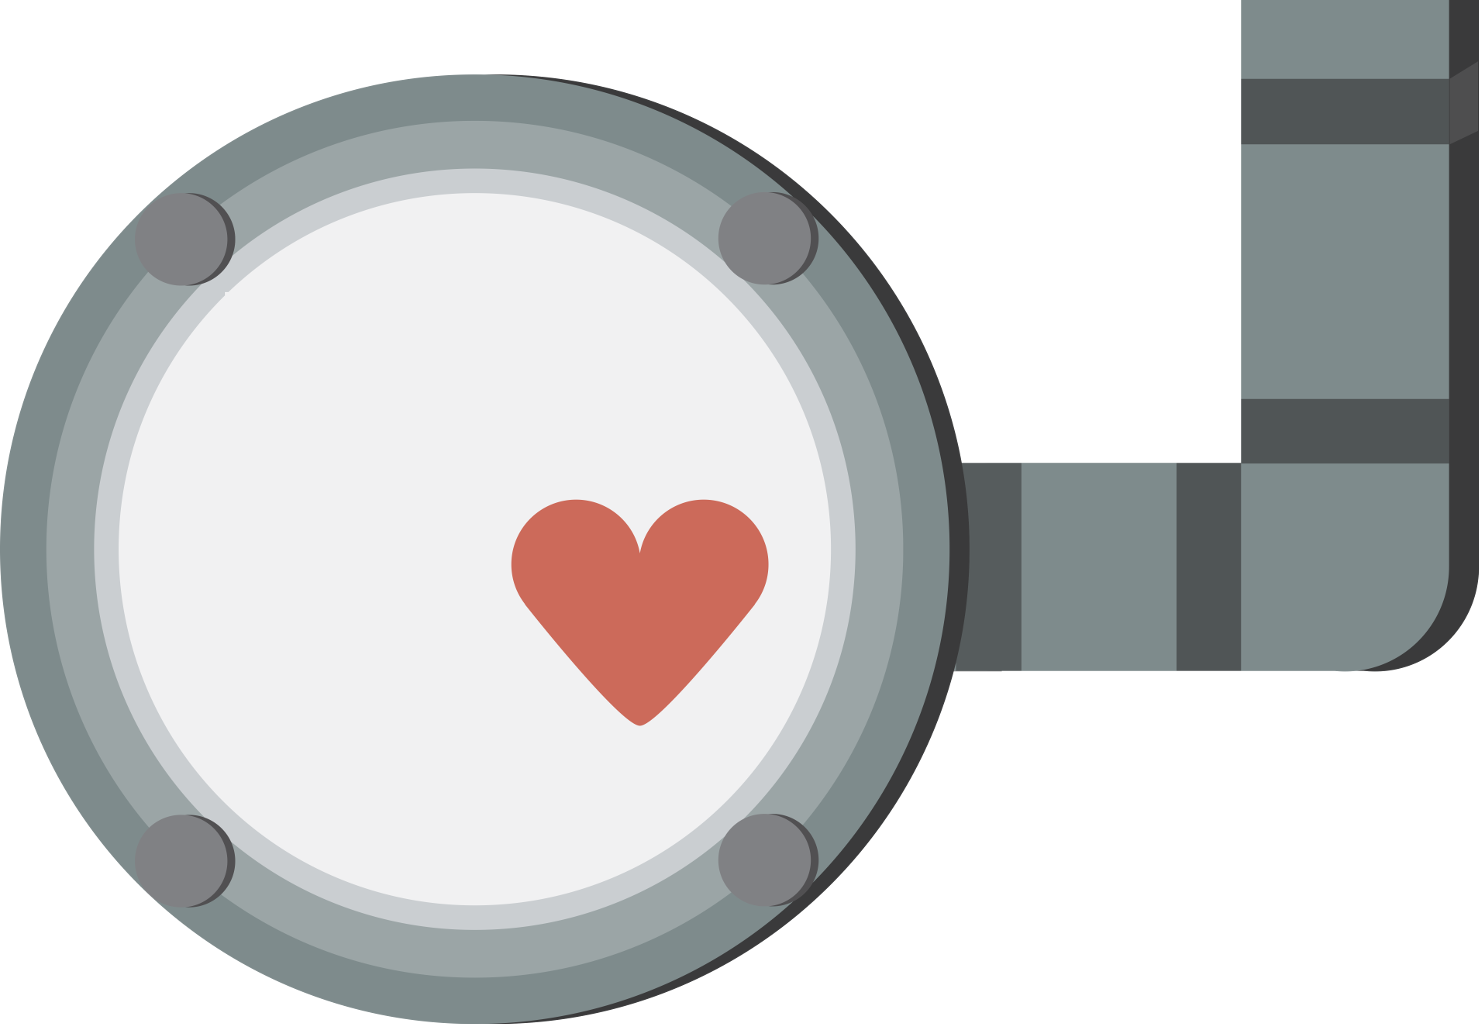
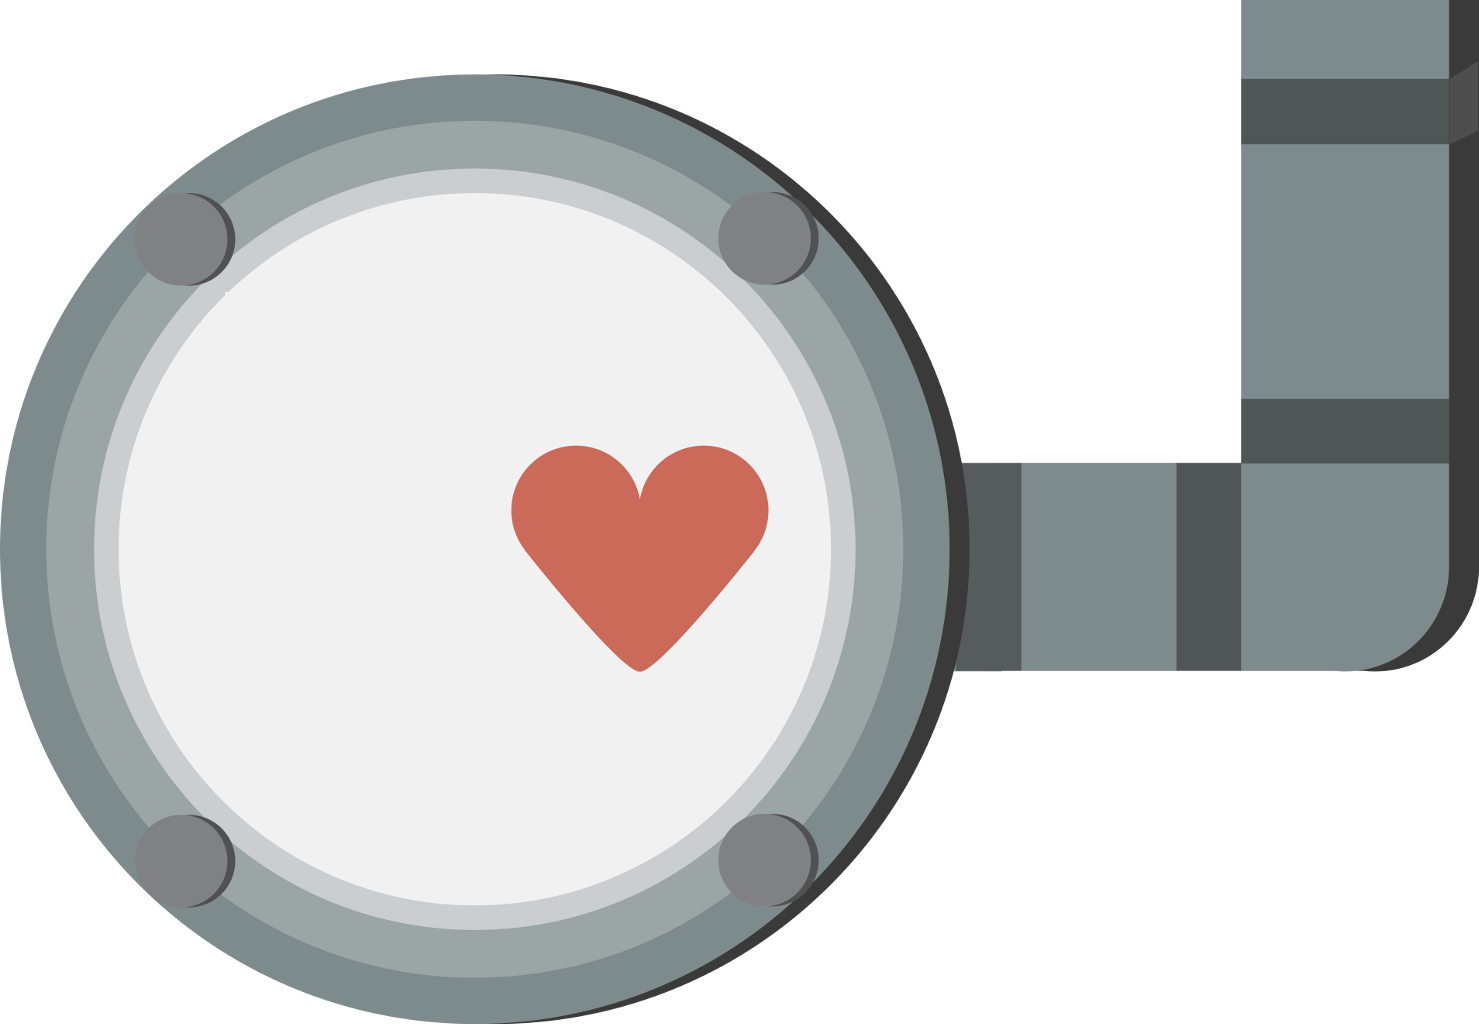
BinGame: Handled item's sprite variety
Former-commit-id: 848bdd9f62b79d91e514d6038de6cd0a1248e781

Changed region(s): [[0.3421, 0.4375, 0.5287, 0.7188]]

diff --git a/app/src/main/java/com/ionis/igem/app/ui/GameActivity.java b/app/src/main/java/com/ionis/igem/app/ui/GameActivity.java
@@ -11,8 +11,8 @@ import com.ionis.igem.app.BinGame;
 import com.ionis.igem.app.game.AbstractGameActivity;
 import com.ionis.igem.app.game.managers.ResMan;
 import com.ionis.igem.app.game.model.BaseGame;
-import com.ionis.igem.app.game.model.FontAsset;
-import com.ionis.igem.app.game.model.GFXAsset;
+import com.ionis.igem.app.game.model.res.FontAsset;
+import com.ionis.igem.app.game.model.res.GFXAsset;
 import com.ionis.igem.app.game.model.HUDElement;
 import com.ionis.igem.app.game.ui.DitheredSprite;
 import org.andengine.engine.camera.SmoothCamera;
@@ -39,6 +39,7 @@ import org.andengine.opengl.texture.TextureOptions;
 import org.andengine.opengl.texture.atlas.bitmap.BitmapTextureAtlas;
 import org.andengine.opengl.texture.atlas.bitmap.BitmapTextureAtlasTextureRegionFactory;
 import org.andengine.opengl.texture.region.ITextureRegion;
+import org.andengine.opengl.texture.region.ITiledTextureRegion;
 import org.andengine.opengl.texture.region.TextureRegion;
 import org.andengine.opengl.texture.region.TiledTextureRegion;
 import org.andengine.opengl.vbo.VertexBufferObjectManager;
@@ -48,7 +49,7 @@ import java.util.List;
 
 public class GameActivity extends AbstractGameActivity implements MenuScene.IOnMenuItemClickListener {
     private static final String TAG = "GameActivity";
-    public static final float SPLASH_TIME = 3f;
+    public static final float SPLASH_DURATION = 0.5f;
 
     private static final int OPTION_RESET = 0;
     private static final int OPTION_QUIT = OPTION_RESET + 1;
@@ -58,7 +59,7 @@ public class GameActivity extends AbstractGameActivity implements MenuScene.IOnM
     private SmoothCamera gameCamera;
 
     private PhysicsWorld physicsWorld;
-    private HashMap<CharSequence, ITextureRegion> textureMap = new HashMap<>();
+    private HashMap<CharSequence, ITiledTextureRegion> textureMap = new HashMap<>();
 
     private HashMap<CharSequence, IFont> fontMap = new HashMap<>();
     private TextureManager textureManager;
@@ -121,7 +122,7 @@ public class GameActivity extends AbstractGameActivity implements MenuScene.IOnM
 
         Log.d(TAG, "onCreateScene - Splash Scene created.");
 
-        mEngine.registerUpdateHandler(new TimerHandler(SPLASH_TIME, new ITimerCallback() {
+        mEngine.registerUpdateHandler(new TimerHandler(SPLASH_DURATION, new ITimerCallback() {
             public void onTimePassed(final TimerHandler pTimerHandler) {
                 mEngine.unregisterUpdateHandler(pTimerHandler);
 
@@ -179,15 +180,10 @@ public class GameActivity extends AbstractGameActivity implements MenuScene.IOnM
         final String filename = asset.getFilename();
         final int textureX = asset.getTextureX();
         final int textureY = asset.getTextureY();
-        if (asset.isTiled()) {
-            final int tileC = asset.getTileColumns();
-            final int tileR = asset.getTileRows();
-            TiledTextureRegion tiledTextureRegion = BitmapTextureAtlasTextureRegionFactory.createTiledFromAsset(textureAtlas, this, filename, textureX, textureY, tileC, tileR);
-            putTexture(filename, tiledTextureRegion);
-        } else {
-            TextureRegion textureRegion = BitmapTextureAtlasTextureRegionFactory.createFromAsset(textureAtlas, this, filename, textureX, textureY);
-            putTexture(filename, textureRegion);
-        }
+        final int tileC = asset.getTileColumns();
+        final int tileR = asset.getTileRows();
+        TiledTextureRegion tiledTextureRegion = BitmapTextureAtlasTextureRegionFactory.createTiledFromAsset(textureAtlas, this, filename, textureX, textureY, tileC, tileR);
+        putTexture(filename, tiledTextureRegion);
 
         textureAtlas.load();
     }
@@ -242,8 +238,8 @@ public class GameActivity extends AbstractGameActivity implements MenuScene.IOnM
 
     private void loadSplashScene() {
         BitmapTextureAtlas splashTextureAtlas = new BitmapTextureAtlas(textureManager, 349, 512, TextureOptions.DEFAULT);
-        TextureRegion splashTextureRegion = BitmapTextureAtlasTextureRegionFactory.
-                createFromAsset(splashTextureAtlas, this, ResMan.SPLASH, 0, 0);
+        TiledTextureRegion splashTextureRegion = BitmapTextureAtlasTextureRegionFactory.
+                createTiledFromAsset(splashTextureAtlas, this, ResMan.SPLASH, 0, 0, 1, 1);
         splashTextureAtlas.load();
         putTexture(ResMan.SPLASH, splashTextureRegion);
     }
@@ -267,9 +263,9 @@ public class GameActivity extends AbstractGameActivity implements MenuScene.IOnM
     private void loadMenuPause() {
         BitmapTextureAtlas menuAtlas = new BitmapTextureAtlas(this.getTextureManager(), 200, 100, TextureOptions.BILINEAR);
 
-        TextureRegion menuBG = BitmapTextureAtlasTextureRegionFactory.createFromAsset(menuAtlas, this, ResMan.MENU_BG, 0, 0);
-        TextureRegion menuReset = BitmapTextureAtlasTextureRegionFactory.createFromAsset(menuAtlas, this, ResMan.MENU_RESET, 0, 0);
-        TextureRegion menuQuit = BitmapTextureAtlasTextureRegionFactory.createFromAsset(menuAtlas, this, ResMan.MENU_QUIT, 0, 50);
+        TiledTextureRegion menuBG = BitmapTextureAtlasTextureRegionFactory.createTiledFromAsset(menuAtlas, this, ResMan.MENU_BG, 0, 0, 1, 1);
+        TiledTextureRegion menuReset = BitmapTextureAtlasTextureRegionFactory.createTiledFromAsset(menuAtlas, this, ResMan.MENU_RESET, 0, 0, 1, 1);
+        TiledTextureRegion menuQuit = BitmapTextureAtlasTextureRegionFactory.createTiledFromAsset(menuAtlas, this, ResMan.MENU_QUIT, 0, 50, 1, 1);
         putTexture(ResMan.MENU_BG, menuBG);
         putTexture(ResMan.MENU_RESET, menuReset);
         putTexture(ResMan.MENU_QUIT, menuQuit);
@@ -341,8 +337,8 @@ public class GameActivity extends AbstractGameActivity implements MenuScene.IOnM
         Log.v(TAG, "putFont - Added font " + fontName);
     }
 
-    public ITextureRegion getTexture(String textureName) {
-        final ITextureRegion texture = textureMap.get(textureName);
+    public ITiledTextureRegion getTexture(String textureName) {
+        final ITiledTextureRegion texture = textureMap.get(textureName);
         if (texture != null) {
             Log.v(TAG, "getTexture - returning texture " + textureName);
         } else {
@@ -351,7 +347,7 @@ public class GameActivity extends AbstractGameActivity implements MenuScene.IOnM
         return texture;
     }
 
-    void putTexture(String textureName, ITextureRegion texture) {
+    void putTexture(String textureName, ITiledTextureRegion texture) {
         textureMap.put(textureName, texture);
         Log.v(TAG, "putTexture - Added texture " + textureName);
     }

diff --git a/app/src/main/java/com/ionis/igem/app/BinGame.java b/app/src/main/java/com/ionis/igem/app/BinGame.java
@@ -8,16 +8,15 @@ import com.ionis.igem.app.game.bins.Bin;
 import com.ionis.igem.app.game.bins.Item;
 import com.ionis.igem.app.game.managers.ResMan;
 import com.ionis.igem.app.game.model.BaseGame;
-import com.ionis.igem.app.game.model.FontAsset;
-import com.ionis.igem.app.game.model.GFXAsset;
 import com.ionis.igem.app.game.model.HUDElement;
+import com.ionis.igem.app.game.model.res.FontAsset;
+import com.ionis.igem.app.game.model.res.GFXAsset;
 import com.ionis.igem.app.ui.GameActivity;
 import org.andengine.entity.scene.Scene;
 import org.andengine.entity.scene.background.Background;
 import org.andengine.extension.physics.box2d.PhysicsConnector;
 import org.andengine.extension.physics.box2d.PhysicsWorld;
 import org.andengine.opengl.font.IFont;
-import org.andengine.opengl.texture.region.ITextureRegion;
 import org.andengine.opengl.texture.region.ITiledTextureRegion;
 import org.andengine.opengl.vbo.VertexBufferObjectManager;
 
@@ -56,6 +55,12 @@ public class BinGame extends BaseGame {
             /* Items */
             graphicalAssets.add(new GFXAsset(ResMan.FACE_BOX_TILED, 696, 1024, 0, 0, 2, 1));
 
+            graphicalAssets.add(new GFXAsset(ResMan.ITEM_TUBE, 99, 512, 0, 0));
+            graphicalAssets.add(new GFXAsset(ResMan.ITEM_CONE_BLUE, 59, 512, 0, 0));
+            graphicalAssets.add(new GFXAsset(ResMan.ITEM_PEN, 390, 2048, 0, 0));
+            graphicalAssets.add(new GFXAsset(ResMan.ITEM_CONE_WHITE, 235, 2048, 0, 0));
+            graphicalAssets.add(new GFXAsset(ResMan.ITEM_CONE_YELLOW, 235, 2048, 0, 0));
+
             /* HUD */
             graphicalAssets.add(new GFXAsset(ResMan.HUD_LIVES, 1479, 1024, 0, 0));
             graphicalAssets.add(new GFXAsset(ResMan.HUD_SCORE, 1885, 1024, 0, 0));
@@ -80,8 +85,8 @@ public class BinGame extends BaseGame {
     @Override
     public List<HUDElement> getHudElements() {
         if (elements.isEmpty()) {
-            final ITextureRegion textureScore = activity.getTexture(ResMan.HUD_SCORE);
-            final ITextureRegion textureLives = activity.getTexture(ResMan.HUD_LIVES);
+            final ITiledTextureRegion textureScore = activity.getTexture(ResMan.HUD_SCORE);
+            final ITiledTextureRegion textureLives = activity.getTexture(ResMan.HUD_LIVES);
 
             final float scale = 0.120f;
 
@@ -182,9 +187,9 @@ public class BinGame extends BaseGame {
     }
 
     private void createItems() {
-        final ITextureRegion smileyTextureRegion = activity.getTexture(ResMan.FACE_BOX_TILED);
-        createItem(activity.spriteCenter(smileyTextureRegion));
-        createItem(activity.spritePosition(smileyTextureRegion, 0.2f, 0.5f));
+        final ITiledTextureRegion smileyTextureRegion = activity.getTexture(ResMan.FACE_BOX_TILED);
+        createItem(activity.spriteCenter(smileyTextureRegion), Item.Type.TUBE);
+        createItem(activity.spritePosition(smileyTextureRegion, 0.2f, 0.5f), Item.Type.CONE_BLUE);
     }
 
     @Override
@@ -241,30 +246,62 @@ public class BinGame extends BaseGame {
     }
 
 
-    private void createItem(Vector2 pos) {
-        createItem(pos.x, pos.y);
+    private void createItem(Vector2 pos, Item.Type type) {
+        createItem(pos.x, pos.y, type);
     }
 
-    private void createItem(float posX, float posY) {
-        final ITiledTextureRegion smileyTextureRegion = (ITiledTextureRegion) activity.getTexture(ResMan.FACE_BOX_TILED);
-        Item item = new Item(Item.Type.PAPER, smileyTextureRegion, posX, posY, activity.getVBOM(), activity.getPhysicsWorld());
+    private void createItem(float posX, float posY, Item.Type type) {
+        ITiledTextureRegion textureRegion = activity.getTexture(ResMan.FACE_BOX_TILED);
+        switch (type) {
+            case PETRI_DISH:
+                break;
+            case SUBSTRATE_BOX:
+                break;
+            case SOLVENT:
+                break;
+            case PAPER:
+                break;
+            case MICROSCOPE_SLIDE:
+                break;
+            case PEN:
+                textureRegion = activity.getTexture(ResMan.ITEM_PEN);
+                break;
+            case TUBE:
+                textureRegion = activity.getTexture(ResMan.ITEM_TUBE);
+                break;
+            case CONE_BLUE:
+                textureRegion = activity.getTexture(ResMan.ITEM_CONE_BLUE);
+                break;
+            case CONE_YELLOW:
+                textureRegion = activity.getTexture(ResMan.ITEM_CONE_YELLOW);
+                break;
+            case CONE_WHITE:
+                textureRegion = activity.getTexture(ResMan.ITEM_CONE_WHITE);
+                break;
+        }
+        createItem(posX, posY, textureRegion, type);
+
+    }
+
+    private void createItem(float posX, float posY, ITiledTextureRegion textureRegion, Item.Type type) {
+        Item item = new Item(type, textureRegion, posX, posY, activity.getVBOM(), activity.getPhysicsWorld());
         items.add(item);
         final Scene gameScene = activity.getScene();
         gameScene.getChildByIndex(GameActivity.LAYER_BACKGROUND).attachChild(item);
         gameScene.registerTouchArea(item);
     }
 
-    private void createBin(Bin.Type type, ITextureRegion textureRegion, float posX, float posY) {
+    private void createBin(Bin.Type type, ITiledTextureRegion textureRegion, float posX, float posY) {
         Bin bin = new Bin(type, posX, posY, textureRegion, activity.getVBOM(), activity.getPhysicsWorld());
         activity.getScene().getChildByIndex(GameActivity.LAYER_FOREGROUND).attachChild(bin);
     }
 
     private void createBins() {
         final float binY = 0.85f;
-        final ITextureRegion bin1TextureRegion = activity.getTexture(ResMan.BIN1);
-        final ITextureRegion bin2TextureRegion = activity.getTexture(ResMan.BIN2);
-        final ITextureRegion bin3TextureRegion = activity.getTexture(ResMan.BIN3);
-        final ITextureRegion bin4TextureRegion = activity.getTexture(ResMan.BIN4);
+        final ITiledTextureRegion bin1TextureRegion = activity.getTexture(ResMan.BIN1);
+        final ITiledTextureRegion bin2TextureRegion = activity.getTexture(ResMan.BIN2);
+        final ITiledTextureRegion bin3TextureRegion = activity.getTexture(ResMan.BIN3);
+        final ITiledTextureRegion bin4TextureRegion = activity.getTexture(ResMan.BIN4);
 
         Vector2 bin1Pos = activity.spritePosition(bin1TextureRegion, 0.30f, binY, Bin.SCALE_DEFAULT);
         Vector2 bin2Pos = activity.spritePosition(bin2TextureRegion, 0.50f, binY, Bin.SCALE_DEFAULT);
